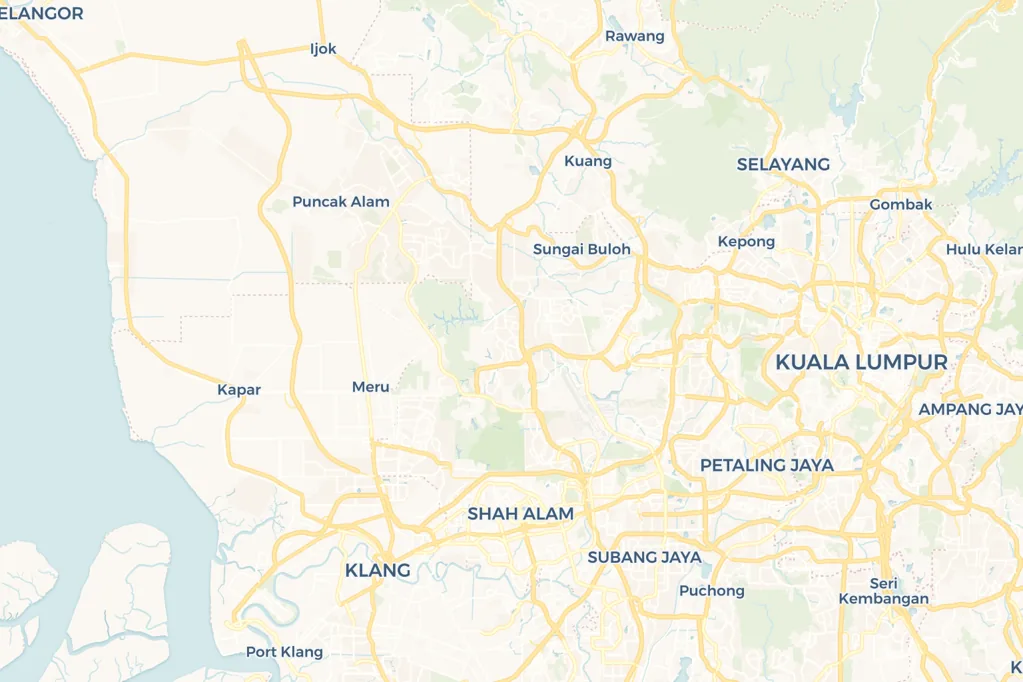
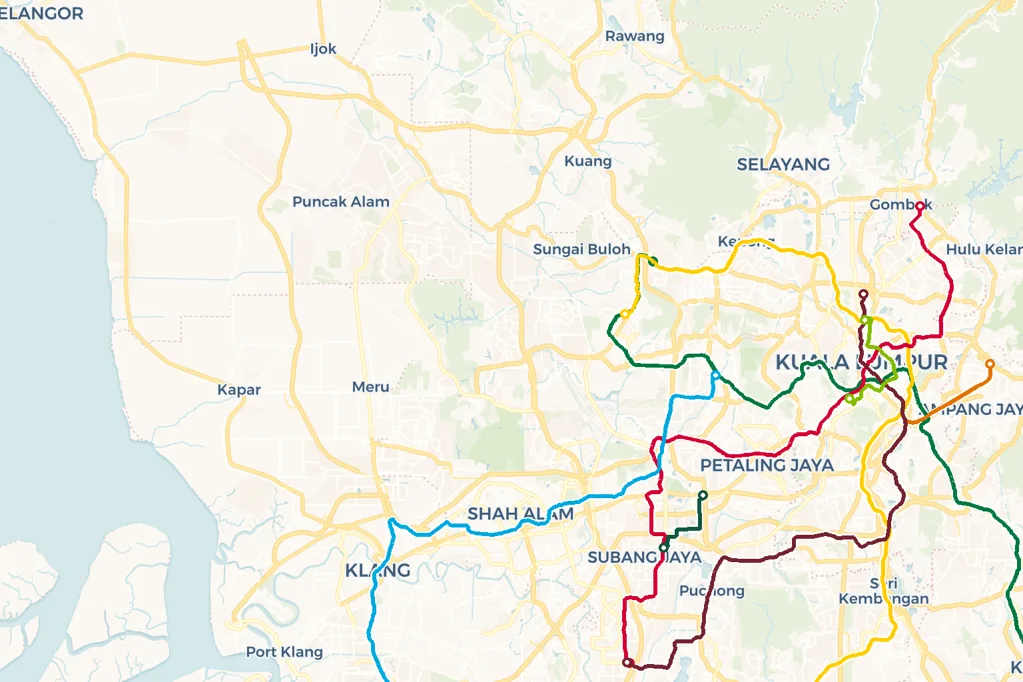
Blog: app design system, route lines drawn on maps, hero landing with live counts

diff --git a/blog/make-images.py b/blog/make-images.py
@@ -1,9 +1,11 @@
 #!/usr/bin/env python3
-"""Build map images for the guides by stitching CARTO voyager tiles
-(self-hosted afterwards, credited in each figure's caption as the
-OSM/CARTO licences require). Run once; outputs go to blog/img/."""
-import math, io, urllib.request
-from PIL import Image
+"""Guide maps with the actual lines drawn point-to-point: basemap tiles from
+CARTO (credited), route geometry fetched from the live tracker's API — the
+same GTFS shapes the app draws. Outputs WebP to img/."""
+import math, io, json, urllib.request, urllib.parse
+from PIL import Image, ImageDraw
+
+APP = "https://public.kaynx1.com"
 
 def tile_xy(lat, lon, z):
     n = 2 ** z
@@ -11,25 +13,74 @@ def tile_xy(lat, lon, z):
     y = (1 - math.log(math.tan(math.radians(lat)) + 1 / math.cos(math.radians(lat))) / math.pi) / 2 * n
     return x, y
 
-def fetch(z, x, y):
-    url = f"https://a.basemaps.cartocdn.com/rastertiles/voyager/{z}/{x}/{y}@2x.png"
+def http(url):
     req = urllib.request.Request(url, headers={"User-Agent": "pt-live-blog-builder/1.0"})
-    return Image.open(io.BytesIO(urllib.request.urlopen(req, timeout=20).read())).convert("RGB")
+    return urllib.request.urlopen(req, timeout=30).read()
 
-def build(name, lat, lon, z, cols=3, rows=2):
+def fetch_tile(z, x, y):
+    return Image.open(io.BytesIO(http(f"https://a.basemaps.cartocdn.com/rastertiles/voyager/{z}/{x}/{y}@2x.png"))).convert("RGB")
+
+_routes_cache = {}
+def resolve(cat, code):
+    if cat not in _routes_cache:
+        _routes_cache[cat] = json.loads(http(f"{APP}/api/rapid-bus/{cat}/routes"))["routes"]
+    for r in _routes_cache[cat]:
+        if code in (r.get("shortName"), r.get("routeId")) or code in (r.get("longName") or ""):
+            return r
+    raise SystemExit(f"route not found: {cat}:{code}")
+
+FALLBACK = {"KGL":"#1b8a3e","PYL":"#f9a825","KJL":"#d32f2f","AGL":"#ef6c00","SPL":"#6d4c41",
+            "SAL":"#8e24aa","MRL":"#2e7d32","BRT":"#00838f","NSL":"#d42e12","EWL":"#009645",
+            "CGL":"#009645","NEL":"#9900aa","CCL":"#fa9e0d","DTL":"#005ec4","TEL":"#9d5b25"}
+
+def build(name, lat, lon, z, lines, cols=3, rows=2):
     cx, cy = tile_xy(lat, lon, z)
     x0, y0 = int(cx - cols / 2), int(cy - rows / 2)
     canvas = Image.new("RGB", (cols * 512, rows * 512))
     for i in range(cols):
         for j in range(rows):
-            canvas.paste(fetch(z, x0 + i, y0 + j), (i * 512, j * 512))
-    canvas = canvas.resize((cols * 341, rows * 341))  # ~1024px wide, crisp enough
-    canvas.save(f"img/{name}.png", optimize=True)
-    print(name, canvas.size)
+            canvas.paste(fetch_tile(z, x0 + i, y0 + j), (i * 512, j * 512))
+    draw = ImageDraw.Draw(canvas)
 
-build("klang-valley-rail", 3.12, 101.68, 11)
-build("singapore-mrt", 1.33, 103.82, 11)
-build("kl-city-buses", 3.145, 101.70, 13)
-build("ktm-klang-valley", 3.05, 101.65, 10)
-build("changi-airport", 1.345, 103.96, 12)
-build("klia-area", 2.76, 101.70, 11)
+    def px(lat_, lon_):
+        tx, ty = tile_xy(lat_, lon_, z)
+        return ((tx - x0) * 512, (ty - y0) * 512)
+
+    resolved = []
+    for cat, code, color in lines:
+        route = resolve(cat, code)
+        rid = urllib.parse.quote(route["routeId"])
+        data = json.loads(http(f"{APP}/api/rapid-bus/{cat}/map?routeId={rid}"))
+        col = color or ("#" + route["color"] if route.get("color") else FALLBACK.get(code, "#2563eb"))
+        shapes = [f["geometry"]["coordinates"] for f in data["geojson"]["features"]
+                  if f["properties"].get("kind") == "route-shape"]
+        resolved.append((col, [[px(la, lo) for lo, la in shape] for shape in shapes]))
+
+    # casing pass first so overlapping lines stay readable, then colour pass
+    for _, shape_sets in resolved:
+        for pts in shape_sets:
+            if len(pts) > 1: draw.line(pts, fill="#ffffff", width=11, joint="curve")
+    for col, shape_sets in resolved:
+        for pts in shape_sets:
+            if len(pts) > 1: draw.line(pts, fill=col, width=6, joint="curve")
+        for pts in shape_sets:  # terminus dots
+            if len(pts) > 1:
+                for tx, ty in (pts[0], pts[-1]):
+                    draw.ellipse([tx-7, ty-7, tx+7, ty+7], fill="#ffffff", outline=col, width=4)
+
+    canvas = canvas.resize((cols * 341, rows * 341))
+    canvas.save(f"img/{name}.webp", "WEBP", quality=82, method=6)
+    print(name, "with", len(lines), "lines")
+
+RAIL = "rapid-rail-kl"
+build("klang-valley-rail", 3.12, 101.66, 11,
+      [(RAIL, c, None) for c in ["KGL","PYL","KJL","AGL","SPL","SAL","MRL","BRT"]])
+build("singapore-mrt", 1.33, 103.82, 11,
+      [("sg-rail", c, None) for c in ["NSL","EWL","CGL","NEL","CCL","DTL","TEL"]])
+build("kl-city-buses", 3.145, 101.70, 13,
+      [("rapid-bus-kl","300","#2563eb"),("rapid-bus-kl","303","#16a34a"),("rapid-bus-kl","400","#d97706")])
+build("ktm-klang-valley", 3.05, 101.65, 10,
+      [("ktmb","Seremban Line",None),("ktmb","Port Klang Line","#2563eb")])
+build("changi-airport", 1.345, 103.96, 12,
+      [("sg-rail","CGL",None),("sg-bus","36","#2563eb")])
+build("klia-area", 2.76, 101.70, 11, [])
